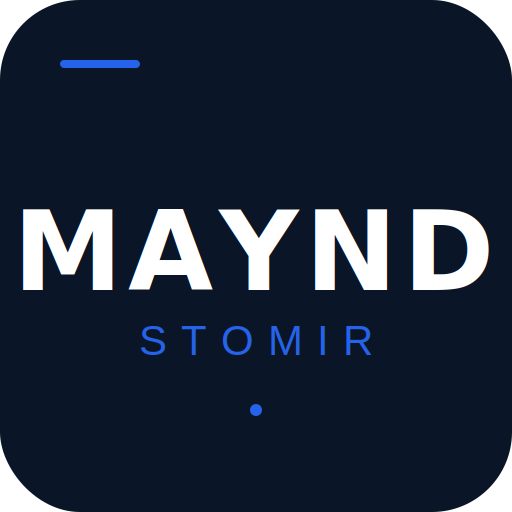
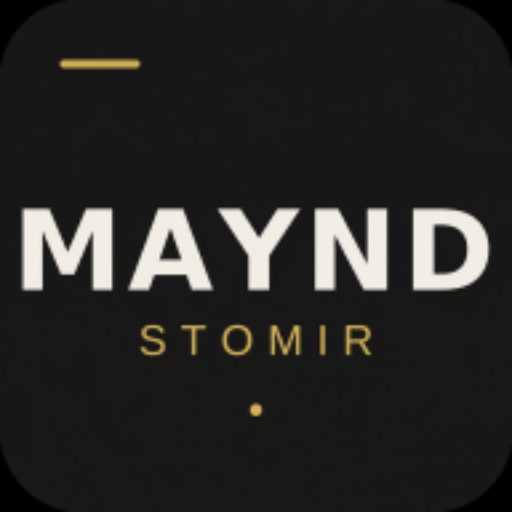
Major Updates

diff --git a/css/styles.css b/css/styles.css
@@ -1,30 +1,30 @@
 @import url('https://fonts.googleapis.com/css2?family=Syne:wght@400;600;700;800&family=DM+Sans:wght@300;400;500&display=swap');
 
 :root {
-    /* Primary Blues */
-    --blue-dark:    #0a1628;   /* deep navy — backgrounds, sidebar */
-    --blue-mid:     #1a3a6b;   /* strong blue — headers, cards */
-    --blue-accent:  #2563eb;   /* vivid blue — buttons, highlights */
-    --blue-light:   #3b82f6;   /* lighter blue — hover states */
-    --blue-soft:    #eff6ff;   /* barely blue — section backgrounds */
+    /* Primary Charcoal */
+    --blue-dark:    #1a1a1a;   /* deep charcoal — backgrounds, sidebar */
+    --blue-mid:     #2d2d2d;   /* dark gray — headers, cards */
+    --blue-accent:  #c9a84c;   /* gold — buttons, highlights */
+    --blue-light:   #e2c06a;   /* light gold — hover states */
+    --blue-soft:    #f5f0e8;   /* warm cream — section backgrounds */
 
     /* Whites & Neutrals */
     --white:        #ffffff;   /* pure white — cards, modals */
-    --off-white:    #f8fafc;   /* page background */
-    --border:       #e2e8f0;   /* borders, dividers */
+    --off-white:    #faf8f4;   /* warm off-white — page background */
+    --border:       #e8e0d0;   /* warm border color */
 
     /* Text */
-    --text-primary:  #0f172a;  /* headings, body text */
-    --text-muted:    #64748b;  /* labels, placeholders */
+    --text-primary:  #1a1a1a;  /* headings, body text */
+    --text-muted:    #7a7a7a;  /* labels, placeholders */
     --text-inverse:  #ffffff;  /* text on dark backgrounds */
 
     /* Status Colors */
-    --pending:      #f59e0b;   /* amber — pending jobs */
-    --assigned:     #10b981;   /* green — assigned jobs */
-    --completed:    #2563eb;   /* blue — completed jobs */
+    --pending:      #d4a017;   /* gold amber — pending jobs */
+    --assigned:     #2e7d52;   /* deep green — assigned jobs */
+    --completed:    #c9a84c;   /* gold — completed jobs */
 
     /* Utility */
-    --shadow:       rgba(37, 99, 235, 0.15);
+    --shadow:       rgba(201, 168, 76, 0.15);
 }
 
 * { margin: 0; padding: 0; box-sizing: border-box; }
@@ -171,16 +171,25 @@ nav a:focus{
     background: var(--blue-soft);
     height: 100%;
     overflow-y: auto;
+    align-items: center;
 }
 .main-header {
     display: flex;
     flex-direction: column;
     gap: 1rem;
+    max-width: 800px;
+    width: 100%;
 }
 .form-grid {
     display: grid;
     grid-template-columns: 1fr;
     gap: 1em;
+    background: var(--white);
+    padding: 2rem;
+    border-radius: 8px;
+    box-shadow: 0 4px 24px rgba(0,0,0,0.08);
+    width: 100%;
+    max-width: 800px;
 }
 .form-upload {
     display: flex;

diff --git a/js/admin.js b/js/admin.js
@@ -25,11 +25,10 @@ async function fetchJobs() {
 
         if (!response.ok) throw new Error("Failed to fetch jobs");
 
-        const jobs = await response.json();
-        allJobs = jobs;
-
-        updateStatCards(jobs);
-        renderTable(jobs);
+        const result = await response.json();
+        allJobs = result.data;
+        updateStatCards(result.data);
+        renderTable(result.data);
 
     } catch (error) {
         console.error(error);
@@ -53,14 +52,12 @@ function renderTable(jobs) {
 
     tbody.innerHTML = jobs.map(job => {
         // Format scheduled date
-        const date = job.scheduled_date
-            ? new Date(job.scheduled_date).toLocaleString("en-GB", {
-                day: "numeric", month: "short", hour: "2-digit", minute: "2-digit"
-              })
+        const date = job.preferred_date
+            ? `${job.preferred_date} ${job.preferred_time || ""}`.trim()
             : "—";
 
         // Location shorthand
-        const location = `Z${job.zone_number}.S${job.street_number}.B${job.building_number}`;
+       const location = job.description || "—";
 
         // Assign column — show input+button if pending, show number if assigned/completed
         const assignCell = job.status === "Pending"
@@ -74,10 +71,10 @@ function renderTable(jobs) {
             <tr>
                 <td>#${String(job.id).padStart(4, "0")}</td>
                 <td class="customer">
-                    <span class="name">${job.customer_name}</span>
+                    <span class="name">${job.full_name}</span>
                     <span class="small">${job.phone_number}</span>
                 </td>
-                <td>${job.problem_category}</td>
+                <td>${job.category}</td>
                 <td>${location}</td>
                 <td>${date}</td>
                 <td><span class="status-badge ${job.status.toLowerCase()}">${job.status}</span></td>
@@ -119,10 +116,9 @@ async function assignTechnician(jobId) {
 searchInput.addEventListener("input", () => {
     const query = searchInput.value.toLowerCase();
     const filtered = allJobs.filter(job =>
-        job.customer_name.toLowerCase().includes(query) ||
-        job.problem_category.toLowerCase().includes(query) ||
-        job.zone_number.toLowerCase().includes(query) ||
-        job.street_number.toLowerCase().includes(query)
+        job.full_name.toLowerCase().includes(query) ||
+        job.category.toLowerCase().includes(query) ||
+        job.description.toLowerCase().includes(query)
     );
     renderTable(filtered);
 });

diff --git a/js/status.js b/js/status.js
@@ -35,8 +35,8 @@ async function fetchJobById(jobId) {
 
         if (!response.ok) throw new Error("Job not found");
 
-        const job = await response.json();
-        renderJobCard(job);
+        const result = await response.json();
+        renderJobCard(result.data);
 
     } catch (error) {
         console.error(error);
@@ -67,10 +67,8 @@ searchForm.addEventListener("submit", async (e) => {
 
         if (!response.ok) throw new Error("No jobs found");
 
-        const data = await response.json();
-
-        // Backend may return array (multiple jobs) or single object
-        const job = Array.isArray(data) ? data[0] : data;
+        const result = await response.json();
+        const job = Array.isArray(result.data) ? result.data[0] : result.data;
 
         if (!job) {
             showError("No jobs found for that phone number.");
@@ -130,22 +128,16 @@ function renderJobCard(job) {
                 field.querySelector(".track-info").textContent = jobId;
                 break;
             case "Category":
-                field.querySelector(".track-info").textContent = job.problem_category || "—";
+                field.querySelector(".track-info").textContent = job.category || "—";
                 break;
             case "Description":
                 field.querySelector(".track-info").textContent = job.description || "—";
                 break;
             case "Scheduled":
-                field.querySelector(".track-info").textContent = scheduled;
-                break;
-            case "Zone":
-                field.querySelector(".track-info").textContent = job.zone_number || "—";
-                break;
-            case "Street":
-                field.querySelector(".track-info").textContent = job.street_number || "—";
-                break;
-            case "Building":
-                field.querySelector(".track-info").textContent = job.building_number || "—";
+                const scheduled2 = job.preferred_date
+                    ? `${job.preferred_date} ${job.preferred_time || ""}`.trim()
+                    : "—";
+                field.querySelector(".track-info").textContent = scheduled2;
                 break;
             case "Technician":
                 const techEl = field.querySelector(".track-info");

diff --git a/js/freelance.js b/js/freelance.js
@@ -41,6 +41,18 @@ async function uploadIdPhoto(file) {
 submitBtn.addEventListener("click", async (e) => {
     e.preventDefault();
 
+    const techName = document.getElementById("technician-name").value.trim();
+    if (techName.split(' ').filter(n => n).length < 2) {
+        alert("Please enter your full name. Must match the names on your Uploaded QID.");
+        return;
+    }
+
+    const phoneNumber = document.getElementById("phone-number").value.trim();
+    if (!/^\d{8}$/.test(phoneNumber)) {
+        alert("Phone number must be exactly 8 digits.");
+        return;
+    }
+
     const photoFile = photoInput.files[0];
 
     if (!photoFile) {
@@ -57,14 +69,15 @@ submitBtn.addEventListener("click", async (e) => {
 
         submitBtn.textContent = "Submitting...";
 
-        
         const body = {
-            name:         document.getElementById("technician-name").value,
-            phone_number: document.getElementById("phone-number").value,
-            trade_skill:  document.getElementById("trade-skill").value,
-            id_photo_url,
+            full_name:        document.getElementById("technician-name").value,
+            phone_number:     document.getElementById("phone-number").value,
+            email:            document.getElementById("email").value,
+            specialty:        document.getElementById("trade-skill").value,
+            experience_years: parseInt(document.getElementById("experience-years").value, 10),
+            qid_number:       document.getElementById("qid-number").value,
+            id_photo_url:     id_photo_url,
         };
-
         
         const response = await fetch(`${BASE_URL}/freelance_applications`, {
             method: "POST",

diff --git a/freelance.html b/freelance.html
@@ -85,6 +85,21 @@
                             <label for="technician-name">Your Full Name</label>
                             <input type="text" name="name" id="technician-name" placeholder="Enter Your Name" required>
                         </div>
+                        <div class="form-upload">
+                            <label for="email">Email Address</label>
+                            <input type="email" name="email" id="email" placeholder="Enter Your Email" required>
+                        </div>
+
+                        <div class="personal">
+                            <div class="form-upload">
+                                <label for="experience-years">Years of Experience</label>
+                                <input type="number" name="experience_years" id="experience-years" placeholder="e.g 3" min="0" required>
+                            </div>
+                            <div class="form-upload">
+                                <label for="qid-number">QID Number</label>
+                                <input type="text" name="qid_number" id="qid-number" placeholder="Enter QID Number" required>
+                            </div>
+                        </div>
                        
                         <div class="personal"> 
                             <div class="form-upload">
@@ -116,7 +131,6 @@
                                 <span class="upload-text">Click to upload from your device here (PNG, JPG, JPEG - Max 5mb)</span>
                                 <input type="file" accept="image/*" capture="environment" id="photo-upload" name="photo" required>
                             </div>
-                        </div>
                         </div>
                         <button type="submit" class="primary">Register →</button>
                     </form>

diff --git a/status.html b/status.html
@@ -120,18 +120,6 @@
                             <div class="track-info">June 12 200pm</div>
                         </div>
                         <div class="track-fields">
-                            <div class="track-list">Zone</div>
-                            <div class="track-info">250</div>
-                        </div>
-                        <div class="track-fields">
-                            <div class="track-list">Street</div>
-                            <div class="track-info">850</div>
-                        </div>
-                        <div class="track-fields">
-                            <div class="track-list">Building</div>
-                            <div class="track-info">12</div>
-                        </div>
-                        <div class="track-fields">
                             <div class="track-list">Technician</div>
                             <div class="track-info">Not Assigned Yet</div>
                         </div>

diff --git a/index.html b/index.html
@@ -95,7 +95,7 @@
                                 <input type="tel" name="phone_number" id="phone-number" placeholder="Enter Your Phone Number" required>
                             </div>
                             <div class="form-upload">
-                                <label for="problem-category">Problem Category</label>
+                                <label for="problem-category">Category</label>
                                 <select name="problem_category" id="problem-category" required>
                                     <option value="" selected disabled>Select Problem</option>
                                     <option value="AC">AC</option>

diff --git a/js/main.js b/js/main.js
@@ -103,7 +103,7 @@ submitBtn.addEventListener("click", async (e) => {
             phone_number:   document.getElementById("phone-number").value,
             category:       document.getElementById("problem-category").value,
             description:    `${descriptionText} | Location: Zone ${zoneNumber}, Street ${streetNumber}, Building ${buildingNumber}`,
-            photo_url,
+            job_photo_url:  photo_url,
             preferred_date: scheduledDateValue,
             preferred_time: scheduledTimeValue
         };

diff --git a/service-worker.js b/service-worker.js
@@ -1,6 +1,6 @@
 // MAYND STOMIR — Service Worke
 
-const CACHE_NAME = "maynd-stomir-v4";
+const CACHE_NAME = "maynd-stomir-v9";
 
 // Files to cache for offline access
 const ASSETS = [